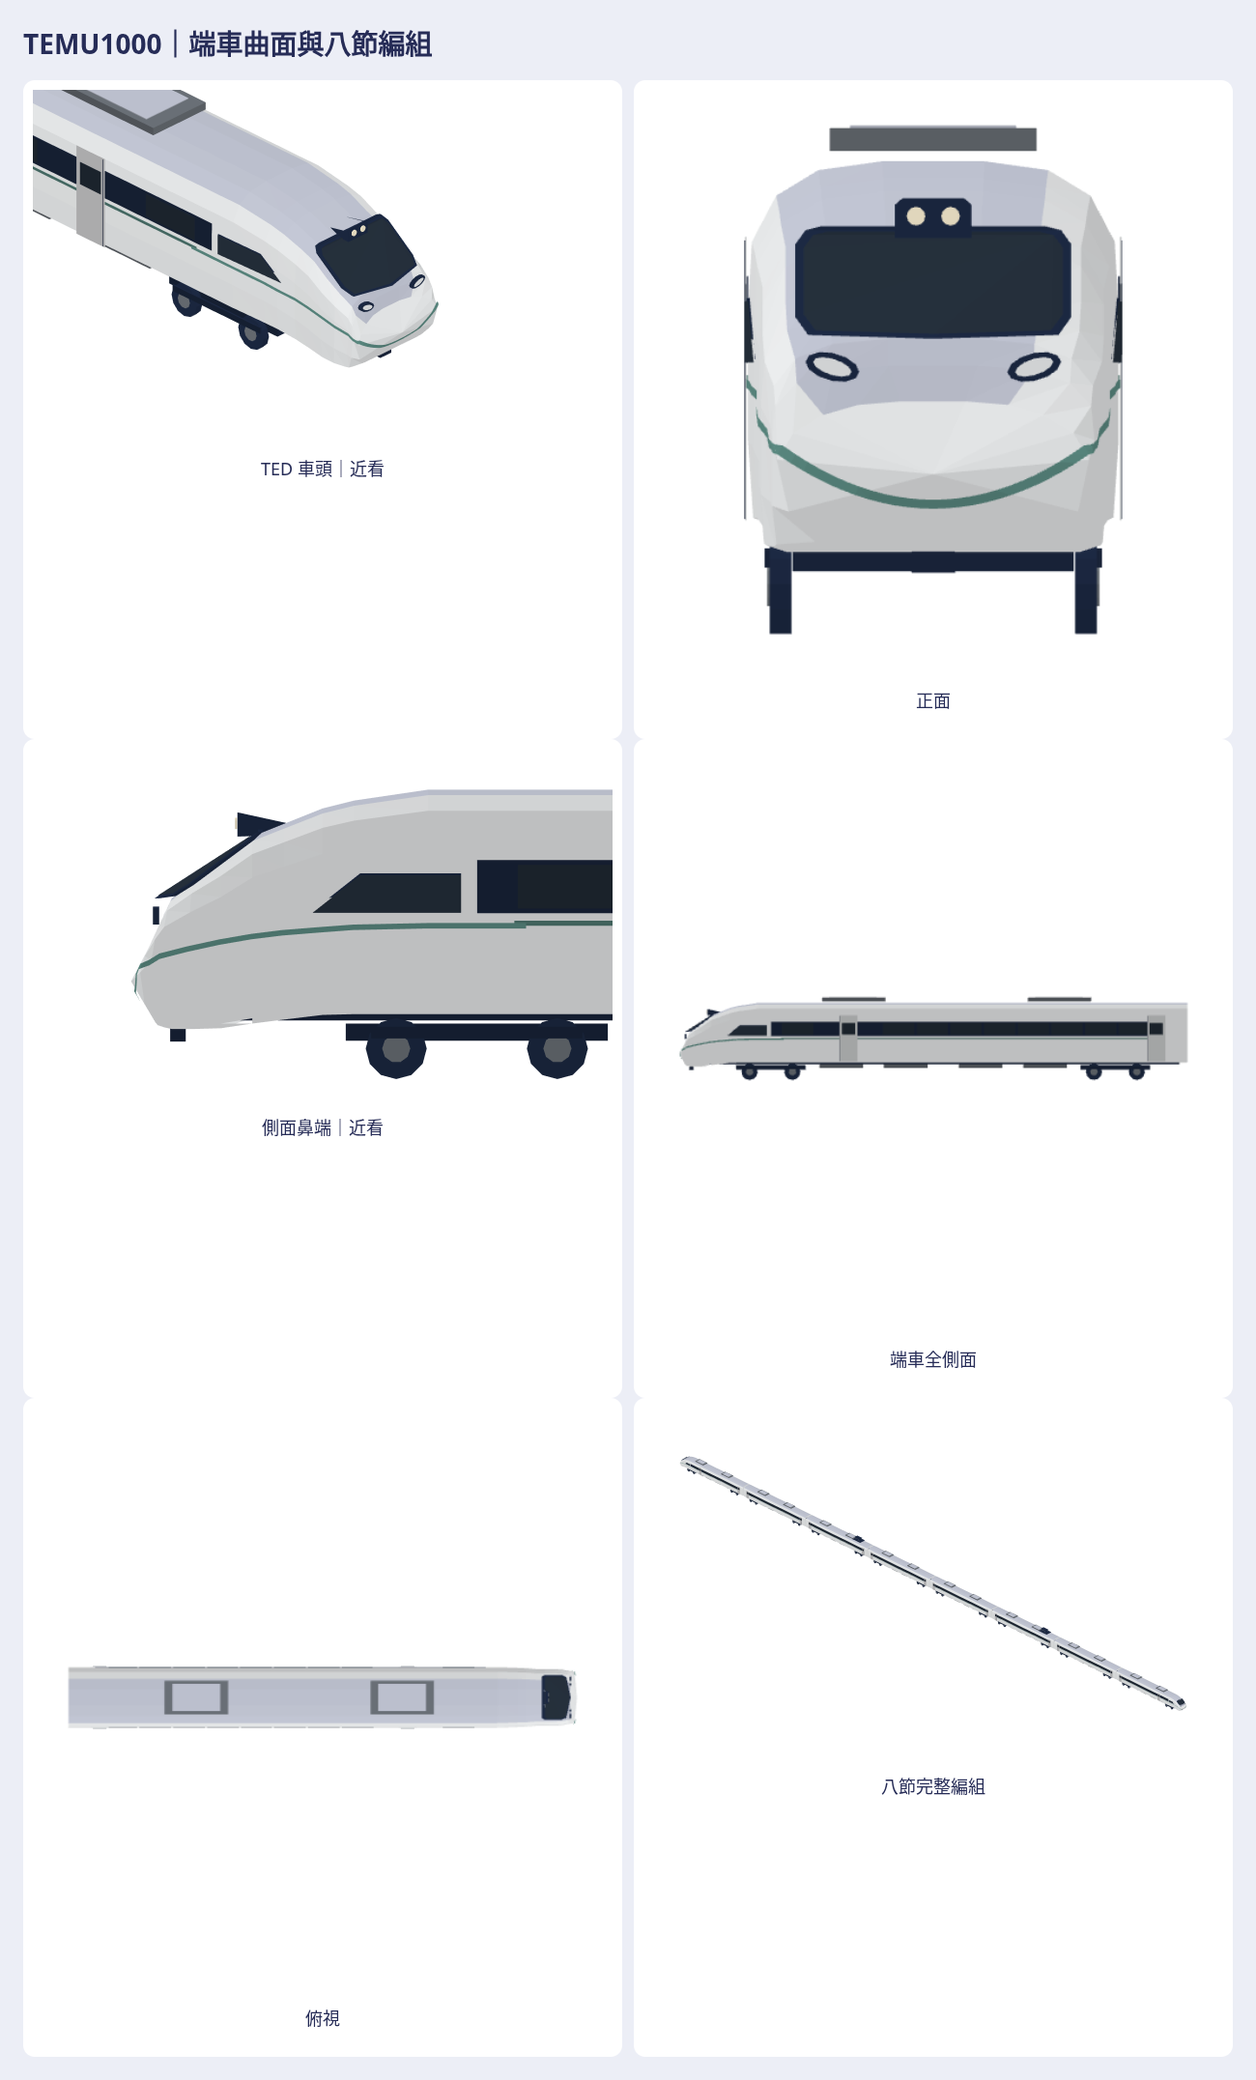
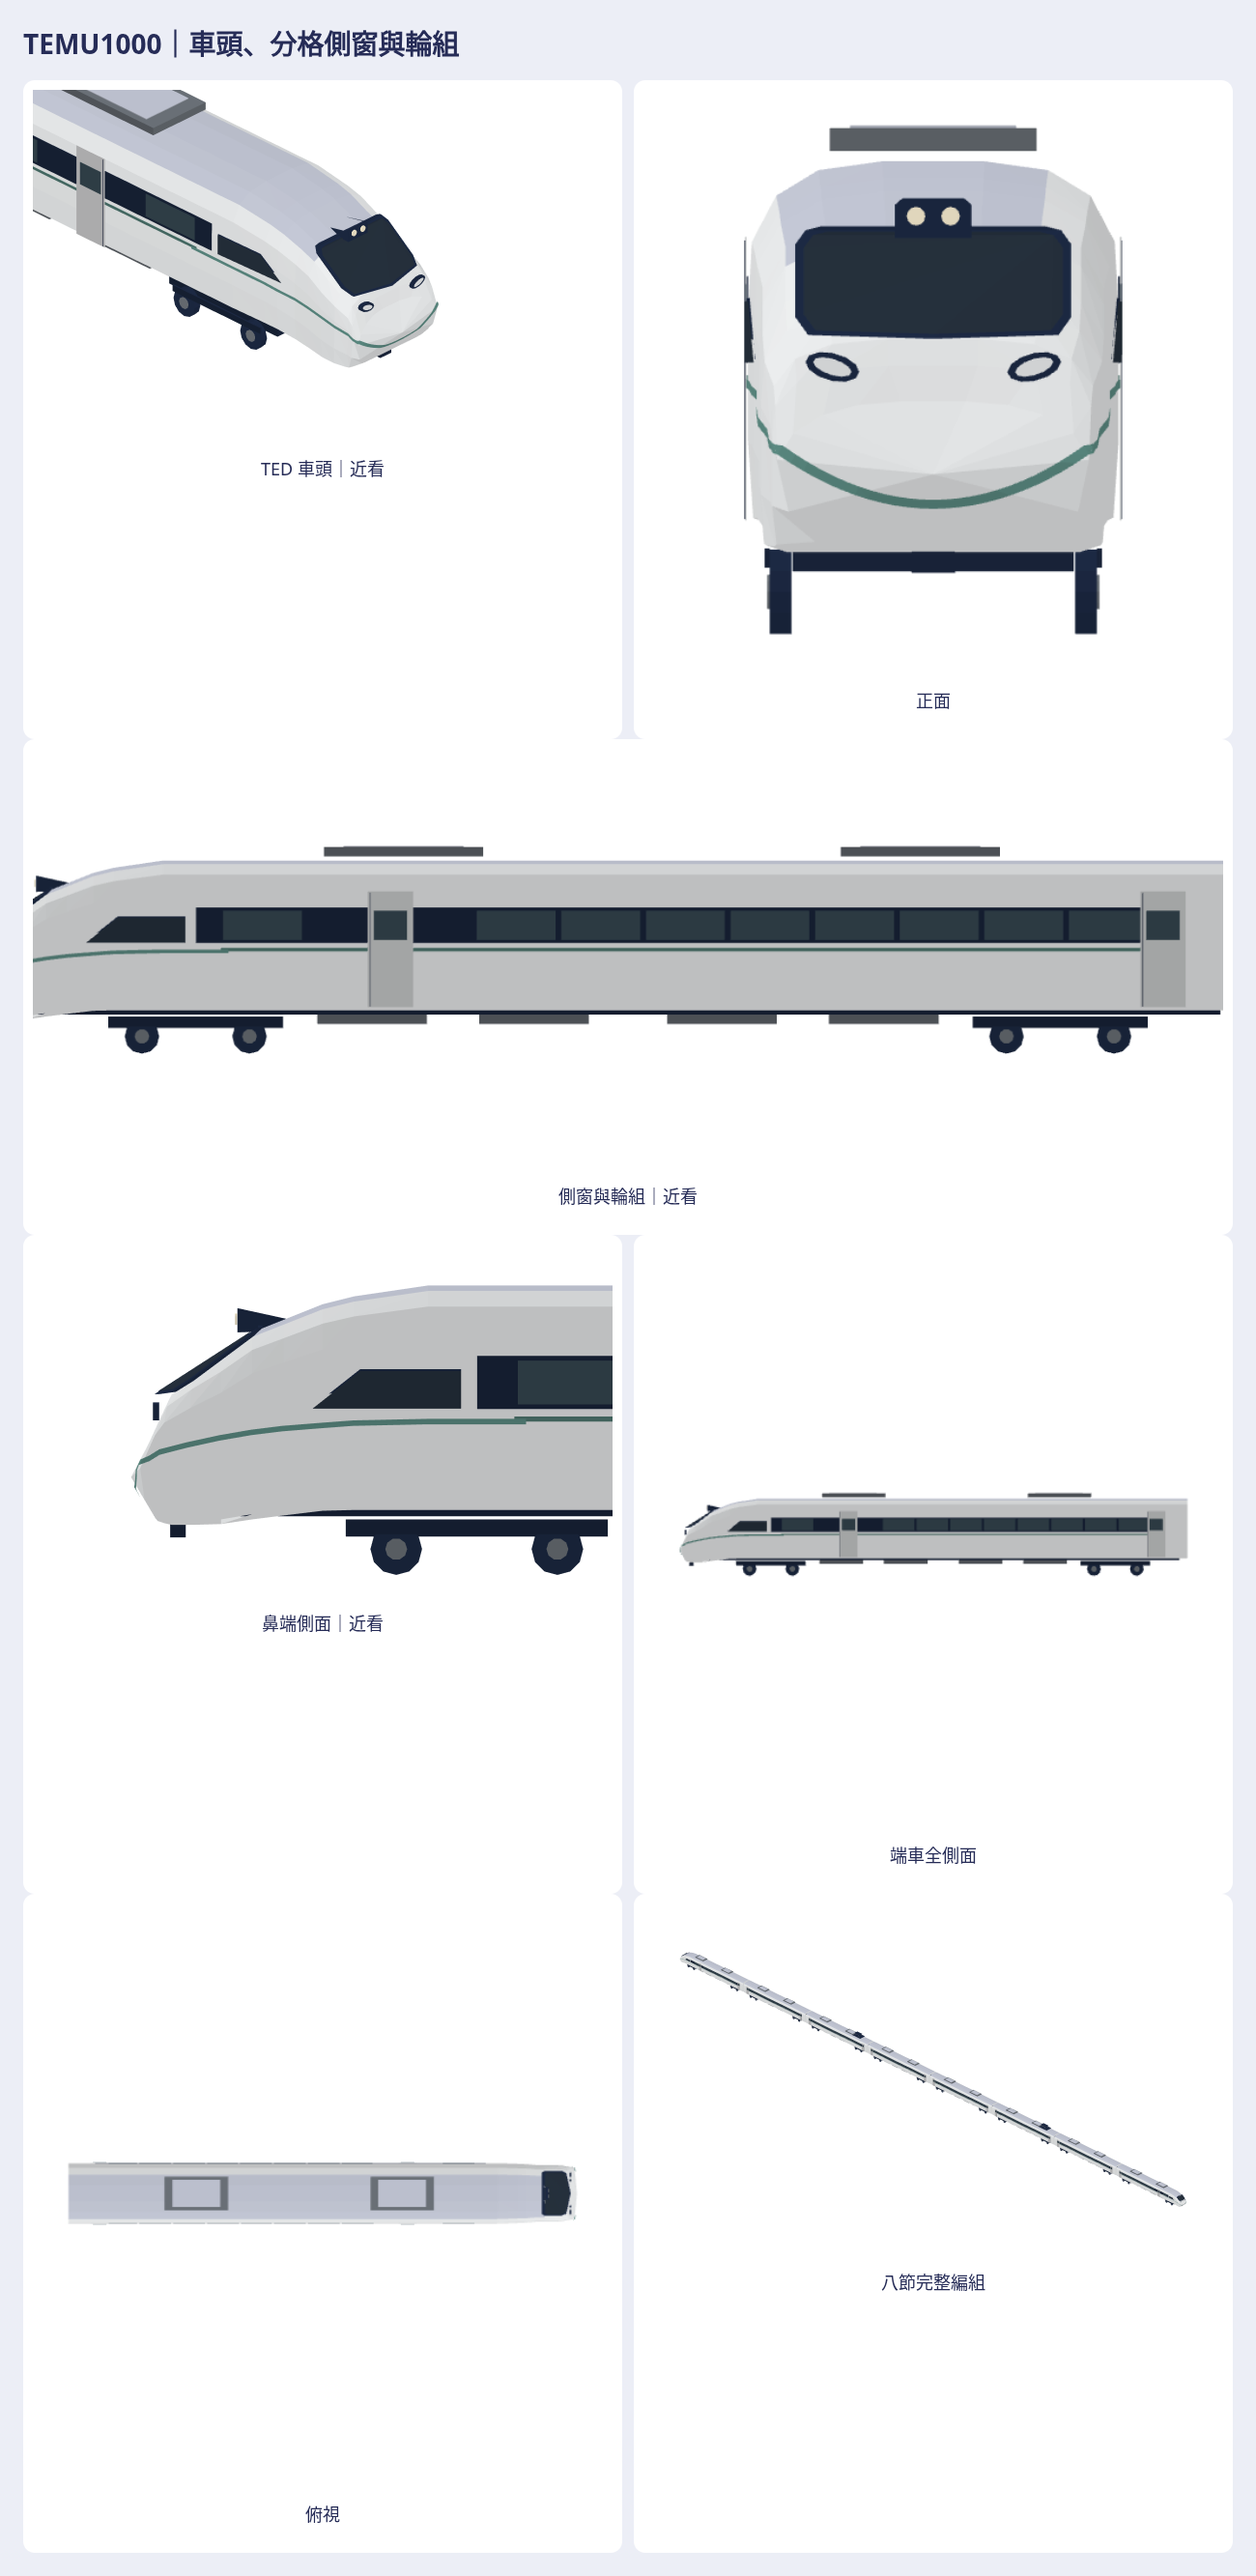
Size TEMU1000 wheels and reveal side windows
Centre the cab fascia by constraining roof paint to the roof.

Agent: Codex

diff --git a/Sources/GamePresentation/Map3DTEMU1000.swift b/Sources/GamePresentation/Map3DTEMU1000.swift
@@ -8,6 +8,7 @@ public enum Map3DTEMU1000 {
     public static let shell = Map3DPalette.tileWhite
     public static let band = Map3DPalette.gymGreen
     public static let glass = Map3DTrainStyle.glass
+    public static let passengerGlass = Map3DColor.rgb(0x405560)
     public static let ink = Map3DColor.shaded(Map3DPalette.playerRim, 0.75)
 
     public static func model(_ unit: Unit) -> Map3DModelPack.Model {
@@ -77,12 +78,21 @@ extension StationKitBuilder {
             for i in section.indices {
                 let j = (i+1) % section.count
                 let c: UInt32
+                let roofSection = min(rings[k][7].y,rings[k+1][7].y) > 2.90
                 if (i == 2 || i == 12) { c = white }
                 else if i == 3 || i == 11 { c = white }
-                else if i >= 6 && i <= 9 { c = roof }
+                else if i >= 6 && i <= 9 && roofSection { c = roof }
                 else { c = white }
-                face([rings[k][i],rings[k][j],rings[k+1][j]],inside:centre,color:c)
-                face([rings[k][i],rings[k+1][j],rings[k+1][i]],inside:centre,color:c)
+                if nose != 0 && i < 7 {
+                    // Opposite flanks use mirrored diagonals. Splitting the
+                    // non-planar cab quads the same way on both sides made the
+                    // pale front fascia appear offset in a head-on render.
+                    face([rings[k][i],rings[k][j],rings[k+1][i]],inside:centre,color:c)
+                    face([rings[k][j],rings[k+1][j],rings[k+1][i]],inside:centre,color:c)
+                } else {
+                    face([rings[k][i],rings[k][j],rings[k+1][j]],inside:centre,color:c)
+                    face([rings[k][i],rings[k+1][j],rings[k+1][i]],inside:centre,color:c)
+                }
             }
         }
         let capCentre = Map3DPoint(nose*12.70,1.25,0)
@@ -103,17 +113,17 @@ extension StationKitBuilder {
             box(bogie,0.49,0,3.35,2.20,0.22,ink)
             for axle: Float in [-1.03,1.03] {
                 for side: Float in [-1,1] {
-                    civicTube(Map3DPoint(bogie+axle,0.39,side*1.11),
-                              Map3DPoint(bogie+axle,0.39,side*1.28),radius:0.39,color:ink,sides:12)
-                    civicTube(Map3DPoint(bogie+axle,0.39,side*1.28),
-                              Map3DPoint(bogie+axle,0.39,side*1.30),radius:0.18,color:metal,sides:10)
+                    civicTube(Map3DPoint(bogie+axle,0.33,side*1.11),
+                              Map3DPoint(bogie+axle,0.33,side*1.28),radius:0.33,color:ink,sides:12)
+                    civicTube(Map3DPoint(bogie+axle,0.33,side*1.28),
+                              Map3DPoint(bogie+axle,0.33,side*1.30),radius:0.14,color:metal,sides:10)
                 }
             }
             for side: Float in [-1,1] { box(bogie,0.52,side*1.30,2.70,0.04,0.15,ink) }
         }
         for x: Float in [-4.9,-1.8,1.8,4.9] { box(x,0.57,0,2.10,2.08,0.36,metal) }
-        // The reference reads as one nearly unbroken dark window ribbon.
-        // Thin glazed panes sit on a solid body-backed band; doors cut it at
+        // The reference has discrete passenger windows in a dark surround.
+        // Contrasting thin glazed panes sit on a solid body-backed band; doors cut it at
         // the positions visible on the supplied TED/TEM/TEP side drawing.
         for side: Float in [-1,1] {
             let doors: [Float] = nose == 0 ? [-10.25,10.25]
@@ -122,13 +132,13 @@ extension StationKitBuilder {
             for x: Float in stride(from:-9.20,through:9.20,by:1.62) {
                 if nose != 0 && x*nose > 7.4 { continue }
                 if doors.contains(where: { abs(x-$0) < 0.95 }) { continue }
-                box(x,2.18,side*1.464,1.51,0.006,0.56,glass)
+                box(x,2.18,side*1.464,1.51,0.006,0.56,Map3DTEMU1000.passengerGlass)
             }
             for x in doors {
                 // The narrow body-colour leaf has a shallow window and a
                 // hairline edge; it does not project as an external box.
                 box(x,0.89,side*1.467,0.87,0.012,2.22,white)
-                box(x,2.18,side*1.477,0.64,0.006,0.56,glass)
+                box(x,2.18,side*1.477,0.64,0.006,0.56,Map3DTEMU1000.passengerGlass)
                 box(x+0.39,0.90,side*1.475,0.012,0.008,2.18,ink)
             }
             box(-nose*1.10,1.96,side*1.453,

diff --git a/Tests/GamePresentationTests/Map3DTEMU1000Tests.swift b/Tests/GamePresentationTests/Map3DTEMU1000Tests.swift
@@ -96,4 +96,47 @@ final class Map3DTEMU1000Tests: XCTestCase {
             },"paint on the native front must mirror across the centreline")
         }
     }
+
+    func testPassengerWindowsAreIndividualAndWheelsStaySmallOnRail() {
+        for unit in Map3DTEMU1000.Unit.allCases {
+            let model = Map3DTEMU1000.model(unit)
+            let paneColours = Set([0.70,0.80,0.86,0.92,1.0].map {
+                Map3DColor.shaded(Map3DTEMU1000.passengerGlass,$0)
+            })
+            let panes = model.vertices.filter { paneColours.contains($0.color) &&
+                                                 abs($0.y) > 1.43 && $0.z > 1.8 && $0.z < 2.6 }
+            let paneEdges = Set(panes.map { Int(($0.x*100).rounded()) })
+            XCTAssertGreaterThan(paneEdges.count, 16,
+                                 "the side must show separate passenger panes, not a solid black band")
+            XCTAssertTrue(panes.contains { $0.y > 1.43 })
+            XCTAssertTrue(panes.contains { $0.y < -1.43 })
+            for axle: Float in [-9.31,-7.25,7.25,9.31] {
+                let wheel = model.vertices.filter { $0.color == Map3DTEMU1000.ink &&
+                    abs($0.x-axle) < 0.35 && abs($0.y) > 1.12 && $0.z < 0.85 }
+                XCTAssertFalse(wheel.isEmpty)
+                XCTAssertEqual(wheel.map(\.z).min() ?? -1,0,accuracy:0.012,
+                               "each tyre bottom must remain on the rail plane")
+                XCTAssertLessThan(wheel.map(\.z).max() ?? 10,0.72,
+                                  "the wheel disc should not dominate the lower car")
+            }
+        }
+    }
+
+    func testRoofGreyStaysAboveCentredWhiteCabFace() {
+        for unit in [Map3DTEMU1000.Unit.leading, .trailing] {
+            let model = Map3DTEMU1000.model(unit)
+            let forward: Float = unit == .leading ? 1 : -1
+            let roof = model.vertices.filter { $0.color == Map3DPalette.roof && $0.x*forward > 9 }
+            XCTAssertFalse(roof.isEmpty)
+            XCTAssertGreaterThan(roof.map(\.z).min() ?? 0,2.85,
+                                 "grey roof paint must not descend around one side of the front window")
+            let left = roof.filter { $0.y > 0.01 }
+            let right = roof.filter { $0.y < -0.01 }
+            XCTAssertTrue(left.allSatisfy { vertex in
+                right.contains { abs($0.x-vertex.x) < 0.003 &&
+                                 abs($0.y+vertex.y) < 0.003 &&
+                                 abs($0.z-vertex.z) < 0.003 }
+            },"grey roof boundary must be mirrored across the cab centreline")
+        }
+    }
 }

diff --git a/tools/temu1000/bundle.py b/tools/temu1000/bundle.py
@@ -19,7 +19,7 @@ record = {
     'recipe': 'Sources/GamePresentation/Map3DTEMU1000.swift',
     'recipe_sha256': sha(source / 'Sources/GamePresentation/Map3DTEMU1000.swift'),
     'rebuild': 'tools/temu1000/README.md',
-    'supplied_reference': 'five initial inline images and later front/side detail crops; visually inspected; not stored as local files',
+    'supplied_reference': 'five initial inline images, later front/side detail crops and a TED/TEM/TEP side screenshot; visually inspected; not stored as local files',
     'other_source': 'project Map3DPalette / Map3DTrainStyle.glass / project display scale',
     'private_reference_use': 'existing commuter cab used for style comparison; no mesh/image/texture copied',
 }

diff --git a/docs/HANDOFF.md b/docs/HANDOFF.md
@@ -1615,6 +1615,7 @@ PR #755–#784 那一輪（72.1 那一天）的審查：修了 6 項（路線卡
 TEMU1000 原生外形（Codex，issue #1228，draft #1230／私庫 #78）：五張起始圖與後續正／側裁圖均已目視；使用者續指出車鼻過平、中央頂燈消失及塗裝接縫。各真正前版留私庫 history，最新以 `1bd4e92e` 原生端車比對；本輪恢復有屋頂支承的中央雙燈，色帶依車殼三角片取樣且左右鏡射。外觀缺口、重建、同尺度前後及驗證見 `docs/art/temu1000-2026-10-25/README.md`。`taroko` 3D 營運映射接新單元；GameCore、存檔、fixtures 不變。真機 Metal／效能／動畫未驗。
 後續使用者指出「黑色跟圓弧要往下移」：Codex 在同分支下移端車風擋與鼻端斷面，讓正面腰線下垂且側線於鼻端漸降；真前版 `3f697206` 另留私庫 history，本版前後對照改用端車相機。外觀仍待作者評價；真機 Metal／效能／動畫仍未驗。
 再補的正面／側面裁圖顯示端面還是太平：Codex 在同分支縮短鼻端直面、加密並鼓起圓弧端面，玻璃與腰線跟著真曲面；真前版 `d793874b` 存私庫 history，另出車頭側／斜近景與同尺度對照。最新外觀與重建見上述 README；真機限制不變。
+再依使用者明列的輪盤過大、側窗不見及正面灰面偏心：Codex 將輪盤縮至展示半徑 0.33 m 並維持軌面接觸、客窗換成分格可辨玻璃、限制灰屋頂材質在車頭上方且鏡射兩側殼面。真前版 `cea94afc` 留私庫 history，新側窗輪組近景、同尺度前後與各項外觀／驗證仍見上述 README；工程輪徑與真機 Metal 未驗。
 
 **Codex EMU3000第三版（#1226／draft #1229，私有draft #77）**：使用者要求車頭比例及車門破圖修正。真正23a59907／完整revision-2保留，新包revision-3；前裙／白下巴延伸圓收、黑罩改正面U形分色，車寬長／輪組／窗位／設備／編組保留。舊門可重現玻璃被殼面／門葉遮住；白殼作門葉、封閉薄門縫與玻璃按真正截面貼合，新增實際射線回歸先紅後綠及埋入玻璃變異。全量重出原生／GLB／七向／白模剪影／同尺度前後／門部放大／viewer／ZIP。驗證、實際producer、三角及最新同head CI見[自有交接](art/emu3000-refresh-2026-10-25/README.md)與issue交付，外觀自檢不代表作者認可，Linux不代表Metal/FPS。公開PR含營運替換接點，未合併不會出現；靜態幾何無動畫。保留#1227共用builder與#1233的emu3000Classic等舊版，列車包解鎖／回退分派由Claude後續處理，本輪不改其清單。GameCore／存檔／golden／save／replay／玩法不動；不推main／不合併／auto-merge／TestFlight。
 

diff --git a/docs/art/temu1000-2026-10-25/README.md b/docs/art/temu1000-2026-10-25/README.md
@@ -57,3 +57,11 @@
 再對照使用者重貼的正面圖：擋風玻璃上緣應有一具中央雙燈，正面腰帶左右應等高且平順下彎。前版 `1bd4e92e` 真原生端車、GLB、manifest 與近景留在私包 `history/1bd4e92e/`。本輪把中央雙燈做成封閉、有屋頂支承的深色燈座和兩片暖白實體燈面；端車頭尾均有，沒有移到中車。側邊腰帶改為按原生車殼三角面取樣，左右以同一截面鏡射；直線段延入彎線段，鼻端色帶仍按端面實際三角片貼合。相同公尺尺度與相機的真正前後圖在 `previews/before-after.png`。
 
 外觀重檢：**已符合**中央雙燈可從正面及斜視看見，綠色弧線在正面左右對稱，側視的長直線平順轉入鼻端下彎。**仍不符合**近看時車頭與燈座仍為低多邊形遊戲簡化，正面兩側較遠的側身色帶仍可在輪廓後方看見；不能說本版已獲使用者認可。**資料不足**燈座真實尺寸、另一側門窗及車鼻工程曲面。技術檢查另列，不代替這項外觀判讀。
+
+## 依使用者「車輪太大／黑條有窗／車頭灰色未置中」修訂
+
+使用者再次貼出 TED／TEM／TEP 側面插畫並明列三件事；已直接目視，未取得本機原圖，故無法填原圖 SHA。真前版 producer `cea94afc` 原生模型、GLB、manifest、來源與預覽留在私包 `history/cea94afc/`。這輪將輪盤展示半徑由 0.39 m 減至 0.33 m、輪心同步下降並保持輪底在軌面 Z=0；輪距、軸位與轉向架數維持。這是按圖修遊戲比例，**不是實車輪徑**。
+
+側窗改用與黑色窗帶分得開的霧藍灰玻璃，保留細黑窗柱、薄門板與分格；TED、TEM、TEP 及頭尾兩側都重看。原灰色屋頂材質曾跟著縮小的鼻端截面落到風擋旁，使正面灰塊看似偏心；現把屋頂灰面限制在前端上方，風擋與燈下方維持對稱白鼻罩，並讓左右非平面殼片使用鏡射的三角切法。最後原生渲染的正面、兩側、俯視、斜視及新增 `previews/passenger-detail-left.png` 與真前版同公尺尺度比較。
+
+外觀判讀：**已符合**分格客窗能與黑色窗帶分辨、輪盤在側面不再主導車底、正面沒有灰色屋頂材質斜落到單側燈下。**仍不符合**車鼻多邊形折面、窗內構造與車底設備是遊戲尺度簡化；未宣稱作者認可。**資料不足**工程輪徑、另一側門窗及真實灰色屋頂分色尺寸。視覺判讀與技術 VERIFIED／UNVERIFIED、最新 CI 各自記錄。
